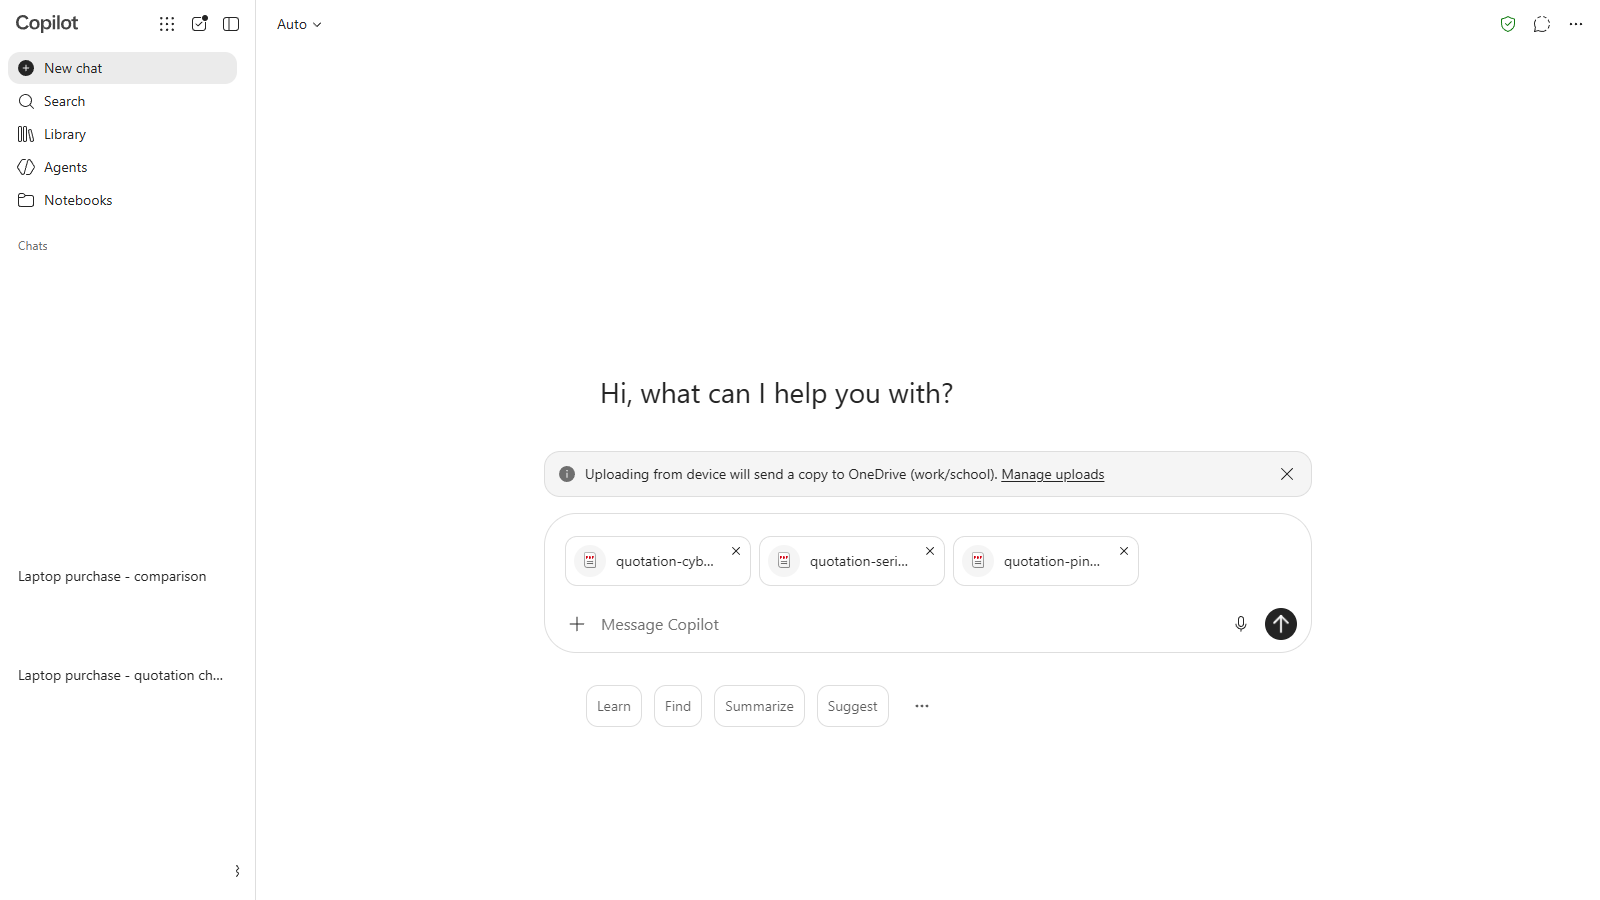
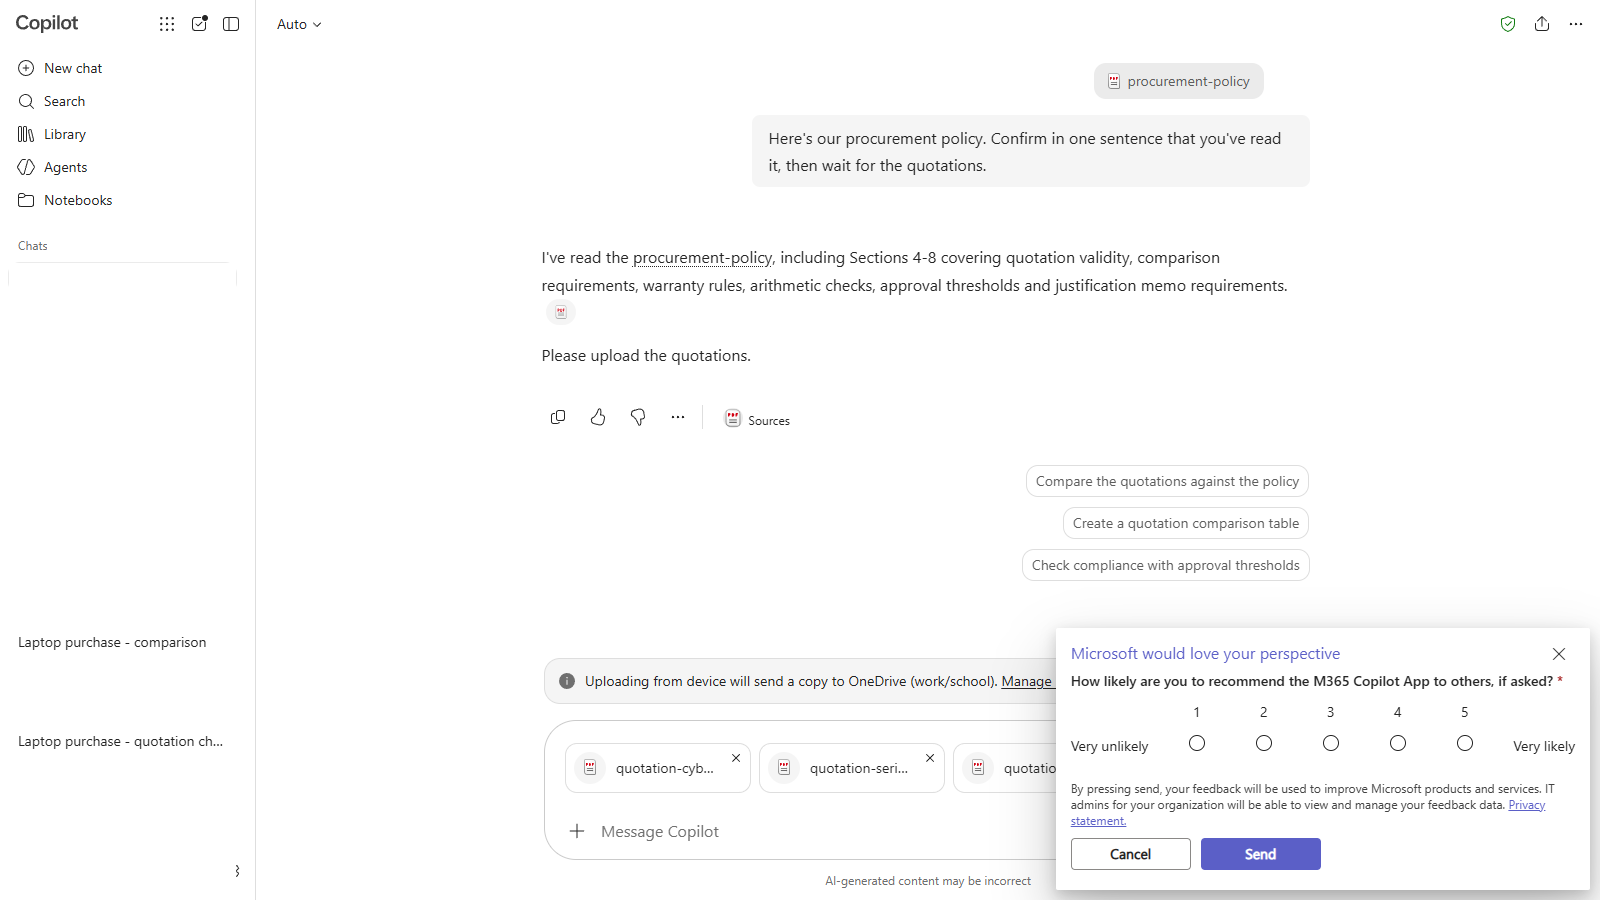
Add 04-compare-the-quotations screenshots

diff --git a/_design/shots/NOTES.md b/_design/shots/NOTES.md
@@ -125,3 +125,5 @@ Codex adds one line here for each step where the screen did not match the notes.
 - 11-extra-practice, A result: README says the announcement has the collection date and keeps all facts; UI shows the supplied draft only says the stated date; the revision uses scheduled date and adds security and allocation wording absent from the draft.
 
 - 11-extra-practice, B: README says Visual Creator generates a notice image; UI shows normal Copilot Chat generated a blue and white laptop notice image with the same prompt; the image was not posted.
+
+- 04-compare-the-quotations, 4.2 / 04-02 retake2: README says send the policy first, then attach three quotations before sending the next prompt; UI shows the policy was uploaded and acknowledged in its own message; the three quotation PDFs finished uploading in the next empty message box, and no quotation prompt was sent.
